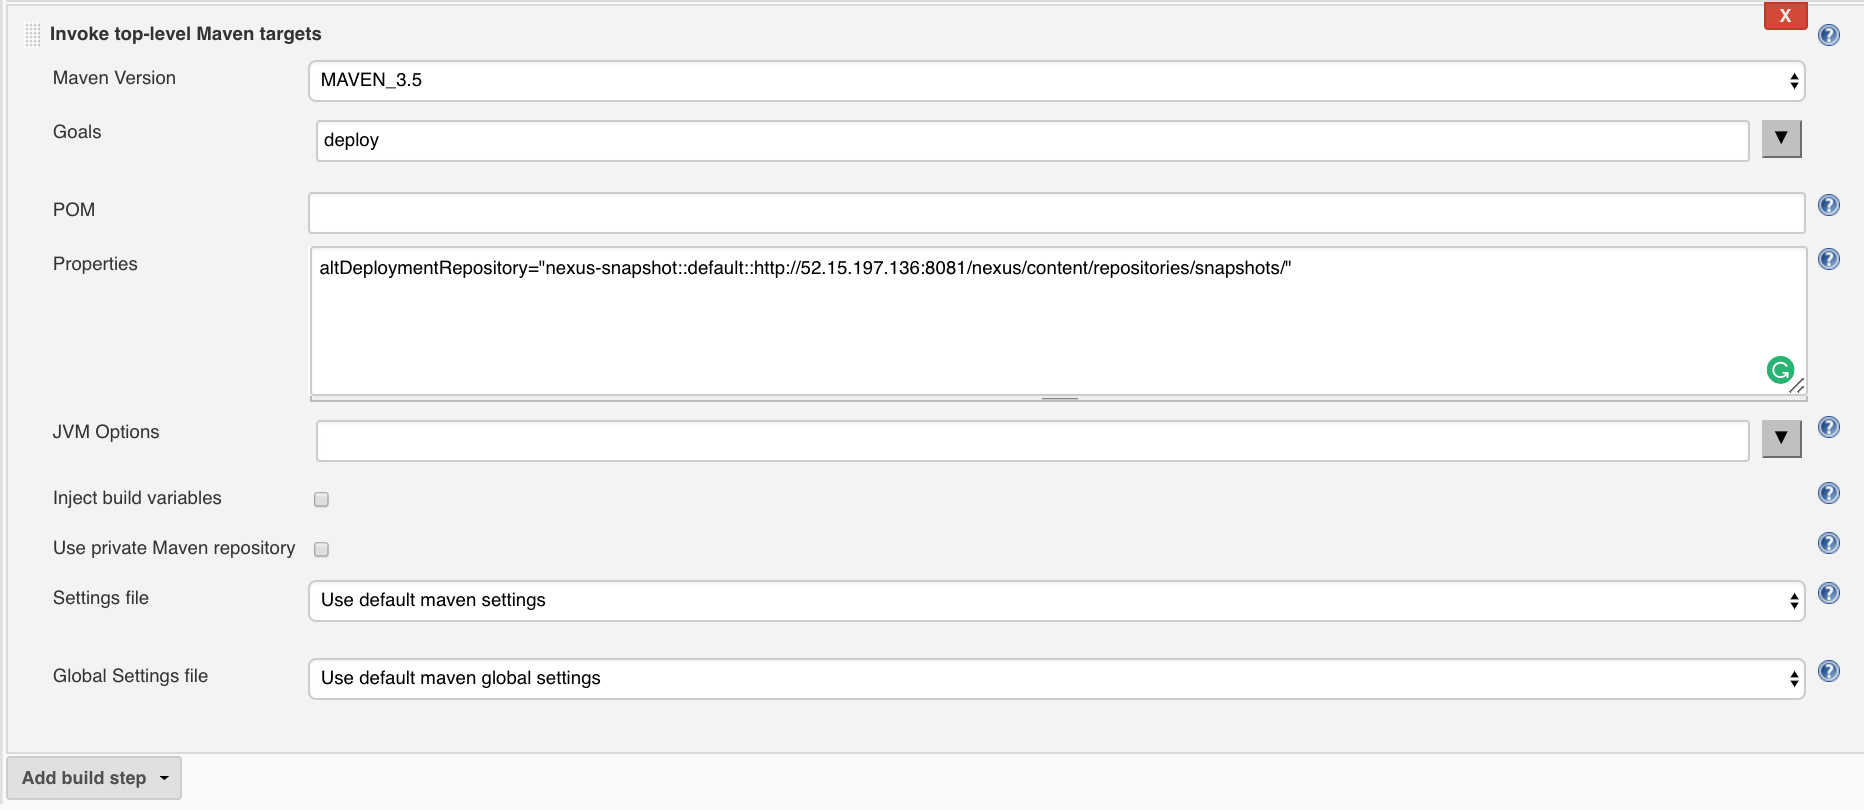
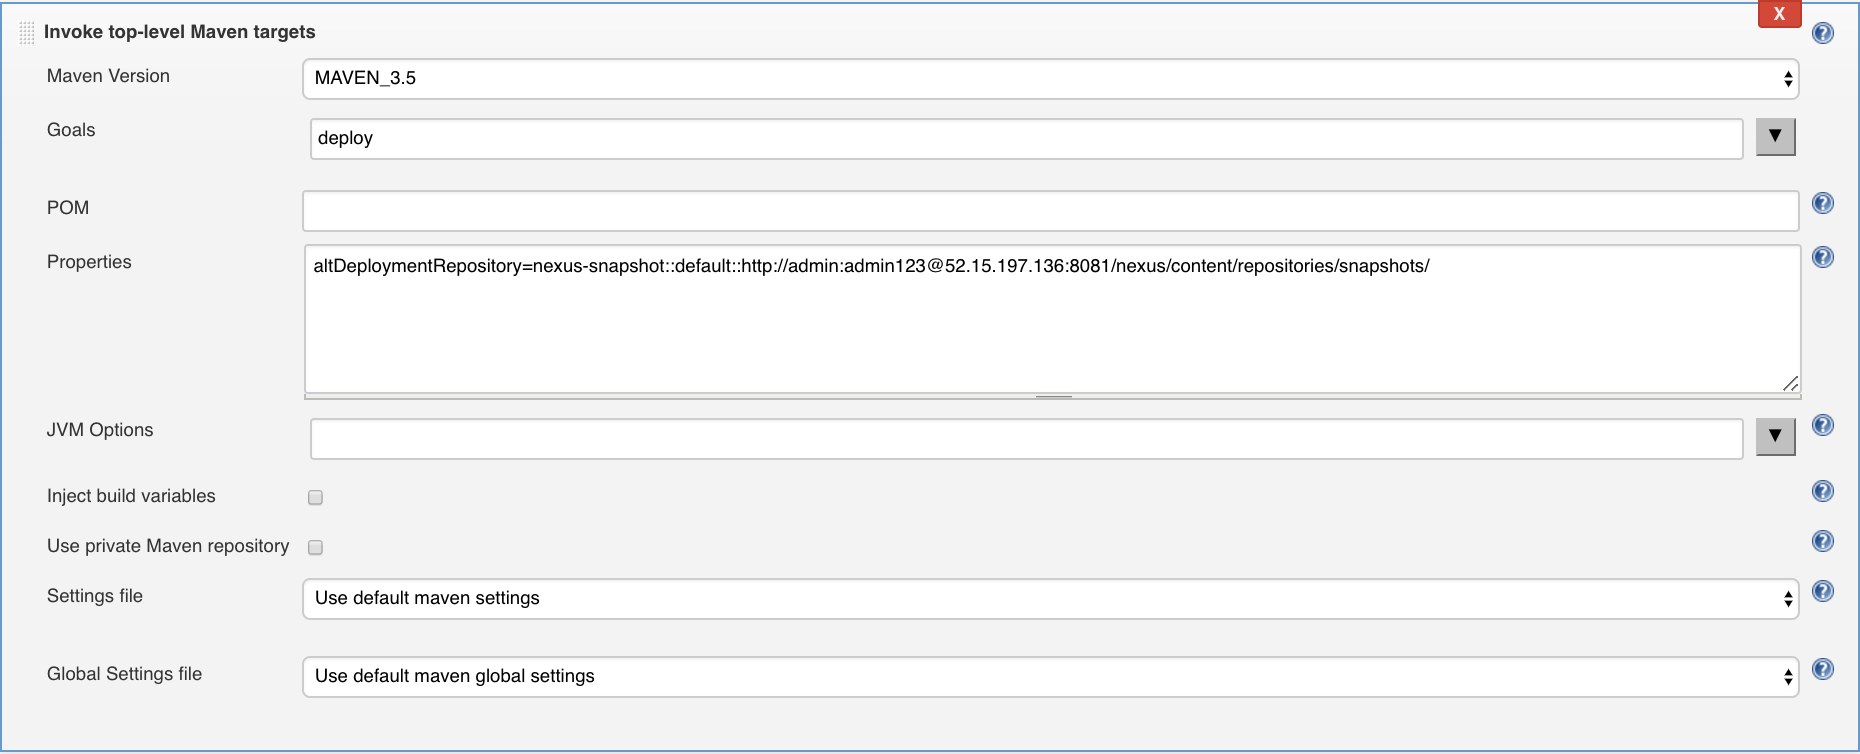
Update for maven deploy config

diff --git a/README.md b/README.md
@@ -301,7 +301,7 @@ __Using Docker__:
 docker run --name nexus \
 --publish 8081:8081 \
 --volume nexus_data:/sonatype-work \
-sonatype/nexus:oss
+-d sonatype/nexus:oss
 ```
 
 ## Update the PetClinicBuild Jenkins Job to run Maven Deploy to Nexus 
